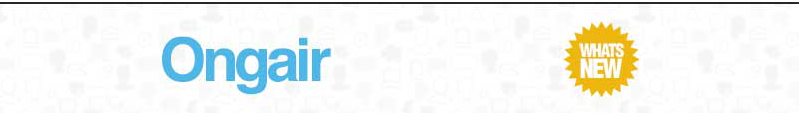
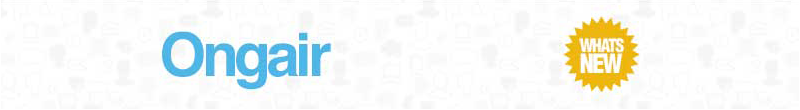
fixed footer

Changed region(s): [[0.1875, 0.2727, 0.4375, 0.8182], [0.6875, 0.1364, 0.8125, 0.8455], [0.0, 0.0, 1.0, 0.0545]]

diff --git a/ongair/index.html b/ongair/index.html
@@ -319,9 +319,9 @@
     <body  width="800" bgcolor="#ffffff">
     <!-- BODY -->
         <table width="800" align="center" style="margin:0 auto;" cellspacing="0" cellpadding="0">
-            <tbody style="colspan-5">
+            <tbody>
                 <tr>
-                    <td class="container" width="800">
+                    <td class="container" width="800" colspan="5">
                         <table align="center" border="0" cellpadding="0" cellspacing = "0" style="margin:0 auto;" width="800" >
                             <tbody>
                                 <tr>
@@ -351,7 +351,7 @@
                         <table align="center" border="0" cellpadding="0" cellspacing = "0" style="margin:0 auto;" width="800" >
                             <tbody>
                                 <tr>
-                                     <td style="border-bottom: 1px solid #999999">
+                                     <td style="border-bottom: 1px solid #cccccc; border-top: 1px solid #cccccc; colspan-5">
                                        <img src="img/banner.png">
                                      </td>
                                   </tr>
@@ -364,9 +364,11 @@
                         <td>
                           <table style="margin: 0 auto;padding: 15px 0px; border-bottom: 2px solid #ececec;padding-bottom: 30px;" cellspacing="0" cellpadding="0">
                             <tr style="cellspacing="0" cellpadding="0"">
-                              <td style="width:20%;">
-                              <h3 style="color: #999999;">This Issue:</h3>
-                              </td><!-- 
+                              <td style="width:20%;" colspan="3">
+                              <h3 style="color: #999999; margin-left: -36px;">This Issue:</h3>
+                              </td>
+                              </tr>
+                              <!-- 
                               <tr>
                               <td>
                                  <ul>
@@ -378,148 +380,25 @@
                                     </li>
                                   </ul>
                                   </tr> -->
-                              </td>
-                              <td style="width:50%;">
-                                <h3 style="color: #999999;">New Lines This Week</h3>
-                              </td>
-                              <td>
-                              </td>
-                            </tr>
-                            <!-- <tr>                              
-                              <td style=" width: 49%; padding-bottom: 42px;" valign="top"> 
-                                  <h3 style="color: #4c757a; font-size: 20px; font-weight: bold;">
-                                    <a href="" style="color: #4c757a;text-decoration:none;">Title for article goes here</a>
-                                  </h3>
-                                  <p>
-                                    Lorem ipsum dolor sit amet, consectetur adipisicing elit, sed do eiusmod
-                                    tempor incididunt ut labore et 
-                                    </p>
-                                    <a href="#">
-                                      <img style="font-size:0;" src="http://cdn.sprout-mail.com/users/assets/10072/images/readmore.png" alt="readmore"/>
-                                    </a>
-                                  </p>
-                              </td>
-                              <td style="width: 18px"><br/></td>
-                              <td style="width: 49%;" valign="top">
-                                 <img src="http://cdn.sprout-mail.com/users/assets/10072/images/man1.jpg" alt="man1"/>
-                              </td>
-                            </tr>
-                             <td style="width: 49%;" valign="top">
-                                 <img src="http://cdn.sprout-mail.com/users/assets/10072/images/beatles.jpg" alt="beatles"/>
-                              </td>
-                              <td style="width:18px"><br/></td>
-                              <td style=" width: 49%; padding-bottom: 42px;" valign="top"> 
-                                  <h3 style="color: #4c757a; font-size: 20px; font-weight: bold;">
-                                    <a href="" style="color: #4c757a;text-decoration:none;">Title for article goes here</a>
-                                  </h3>
-                                  <p>
-                                    Lorem ipsum dolor sit amet, consectetur adipisicing elit, sed do eiusmod
-                                    tempor incididunt ut labore et 
-                                    </p>
-                                    <a href="#">
-                                      <img style="font-size:0;" src="http://cdn.sprout-mail.com/users/assets/10072/images/readmore.png" alt="readmore"/>
-                                    </a>
-                                  </p>
-                              </td>
-                            </tr> -->
-                            <!-- </table>
-                              <table>
-                                 <tbody>
-                                  <tr>
-                                  <center>
-                                  <h3 style="color: #4c757a; font-size: 20px; font-weight: bold; padding-top: 23px;">
-                                    <a href="" style="color: #4c757a;text-decoration:none;">Title for article goes here</a>
-                                  </h3>
-                                <tr>
+                            <tr>
+                                </td>
                                   <td>
-                                      <center>
-                                        <img style="padding-bottom: 7px;" src="http://cdn.sprout-mail.com/users/assets/10072/images/setting.jpg" alt="setting"/>
-                                        </center>
-                                         <center> 
-                                      <h4 style="color: #4c757a; font-size: 18px; font-weight: bold;">
-                                        <a href="" style="color: #4c757a;text-decoration:none;">Title for article goes here</a>
-                                      </h4></center> 
-                                        <p>
-                                          Lorem ipsum dolor sit amet, consectetur adipisicing elit, sed do eiusmod
-                                          tempor incididunt ut labore et dolore magna aliqua. Ut 
-                                        </p>
-                                          <a href="#">
-                                            <img src="http://cdn.sprout-mail.com/users/assets/10072/images/readmore.png" alt="readmore"/>
-                                          </a>
-                                    </td>
-                                    <td ><center>
-                                        <img style="padding-bottom: 7px;" src="http://cdn.sprout-mail.com/users/assets/10072/images/clip.jpg" alt="clip"/>
-                                        </center>
-                                         <center> 
-                                      <h4 style="color: #4c757a; font-size: 18px; font-weight: bold;">
-                                        <a href="" style="color: #4c757a;text-decoration:none;">Title for article goes here</a>
-                                      </h4></center> 
-                                        <p style="padding-right: 5px;padding-left: 5px;">
-                                          Lorem ipsum dolor sit amet, consectetur adipisicing elit, sed do eiusmod
-                                          tempor incididunt ut labore et dolore magna aliqua. Ut 
-                                        </p>
-                                          <a href="#">
-                                            <img src="http://cdn.sprout-mail.com/users/assets/10072/images/readmore.png" alt="readmore"/>
-                                          </a>
-                                    </td>
-                                    <td >
-                                    <center>
-                                        <img style="padding-bottom: 7px;" src="http://cdn.sprout-mail.com/users/assets/10072/images/bulb.jpg" alt="bulb"/>
-                                        </center>
-                                         <center> 
-                                      <h4 style="color: #4c757a; font-size: 18px; font-weight: bold;">
-                                        <a href="" style="color: #4c757a;text-decoration:none;">Title for article goes here</a>
-                                      </h4></center> 
-                                        <p style="padding-right: 5px;padding-left: 5px;">
-                                          Lorem ipsum dolor sit amet, consectetur adipisicing elit, sed do eiusmod
-                                          tempor incididunt ut labore et dolore magna aliqua. Ut 
-                                        </p>
-                                          <a href="#">
-                                            <img src="http://cdn.sprout-mail.com/users/assets/10072/images/readmore.png" alt="readmore"/>
-                                          </a>
-                                    </td>
-                                </tr>
-                                <tr>
-                                    <td colspan="3" style="border-bottom: 2px solid #E8E8E8; padding-top: 20px;">
-                                  </td>
-                                </tr>
-                            </tbody>
-                            
-                          </table>
-                        </td>
-                      </tr>
-                    </table>
-                  </td>
-                </tr>
-                 </tr>
-                <td bgcolor="#fff" class="container">
-                        <table align="center" style="margin:0 auto; padding-top:5px;" width="800">
-                            <tbody>
-                                <tr>
-                                    <td style="width: 50%;text-align: center --><!-- ;"> 
-                                      <span style="color: #560f0d;">Privacy Policy.</span> 
-                                    </td>
-                                    <td style="width: 50%;text-align: center;"> 
-                                      <span style="color: #560f0d;">Click here to <strong style="color: #560f0d;"><a href="" style="color: #560f0d;text-decoration: none;">unsubscribe</a></strong> </span>
-                                    </td>
-                                </tr>
-                            </tbody>
+                                    <h3 style="color: #999999; margin-left: 35px;">New Lines This Week</h3>
                         </table>
                     </td>
                 </tr>
-                <td align="center" style=" margin:0px !important; clear:none!important; width:100%; padding:0px 0;">
-                        <table align="center" style="margin:0 auto; padding-top:5px;" width="800">
+                  <tr>
+                    <td class="container" width="800">
+                        <table align="center" border="0" cellpadding="0" cellspacing = "0" style="margin:0 auto;" width="800" >
                             <tbody>
                                 <tr>
-                                <tr>
-                                    <td colspan="2"> 
-                                    <p style="padding:10px 5px;text-align:center">
-                                      Lorem ipsum dolor sit amet, consectetur adipisicing elit, sed do eiusmod
-                                      tempor incididunt ut labore et dolore magna aliqua. Ut enim ad minim veniam,
-                                      quis nostrud exercitation ullamco laboris nisi ut aliquip ex e
-                                    </p>
-                                    </td>
-                                </tr>
-                </tr> -->
+                                     <td>
+                                       <img src="img/bottombanner.png">
+                                     </td>
+                                  </tr>
+                              </tbody>
+                          </table>
+                      </td>
+                  </tr>
         <!-- /BODY --></body>
 </html>
